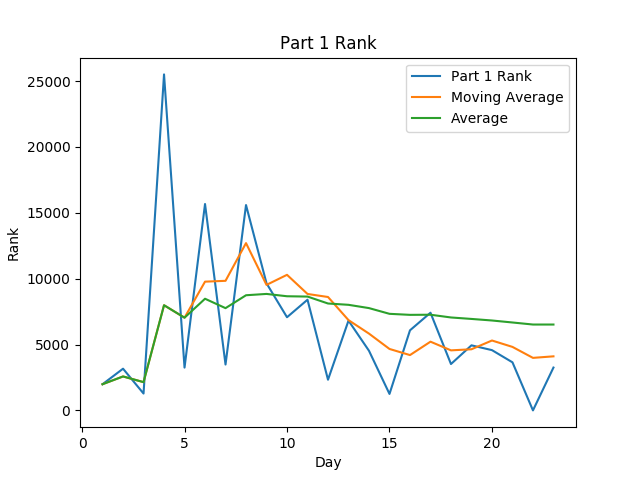
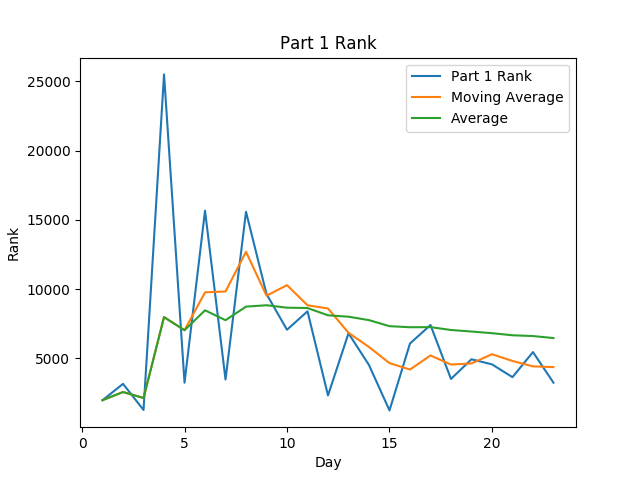
Day 22 stats

diff --git a/README.md b/README.md
@@ -43,8 +43,9 @@ it in OOP, but this is good enough for now!
 |  19 | 24:00:00 ( 4939) (  0)     | 24:00:00 ( 4276) (  0)     |
 |  20 | 24:00:00 ( 4574) (  0)     | 24:00:00 ( 3872) (  0)     |
 |  21 | 24:00:00 ( 3649) (  0)     | 24:00:00 ( 3351) (  0)     |
+|  22 | 24:00:00 ( 5459) (  0)     | 24:00:00 ( 3120) (  0)     |
 |  23 | 24:00:00 ( 3251) (  0)     | 24:00:00 ( 3180) (  0)     |
-| Avg | 14:37:49 ( 6517) (  0)     | 12:56:18 ( 5741) (  0)     |
+| Avg | 15:02:15 ( 6471) (  0)     | 13:25:09 ( 5627) (  0)     |
 
 
 <img alt="Part 1 Time Stats" src="statsImages/part1time.png" width=400> <img alt="Part 1 Rank" src="statsImages/part1rank.png" width=400>
